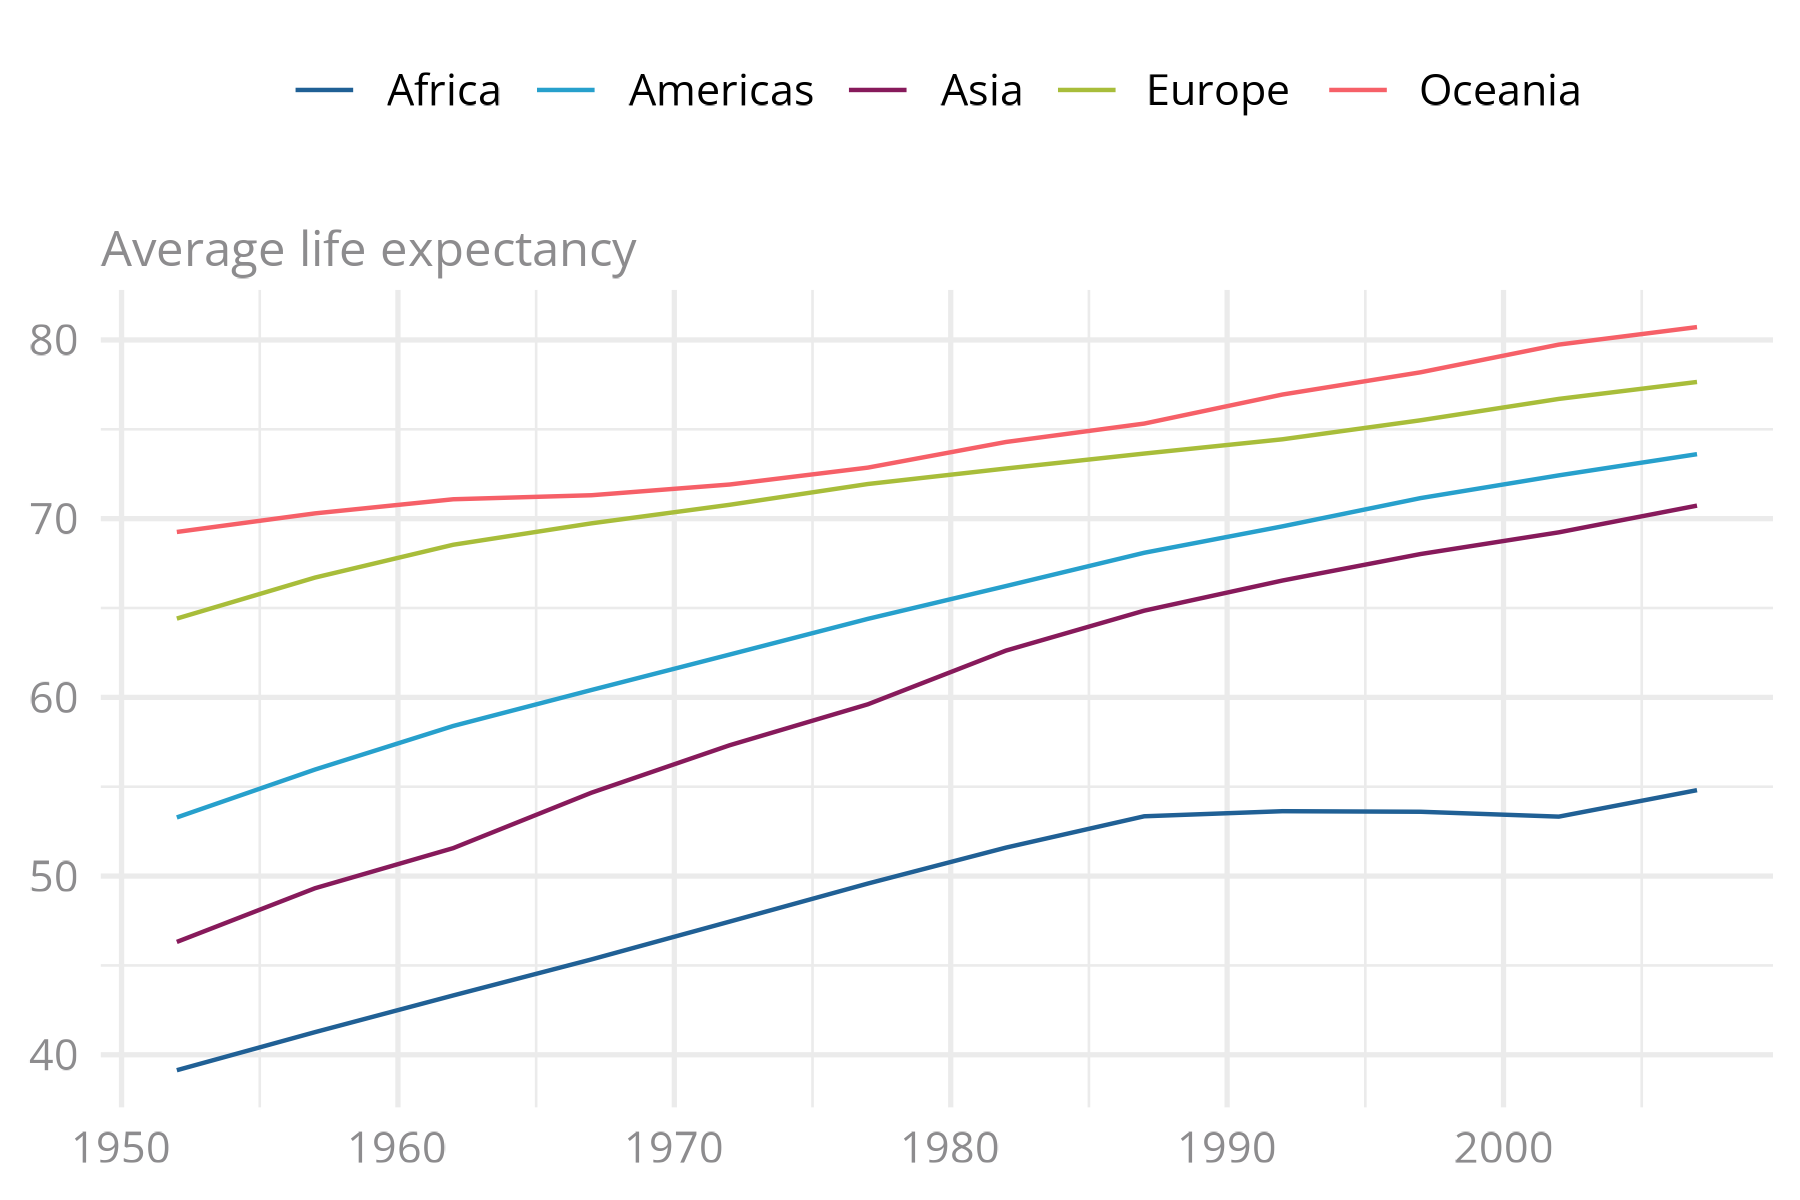
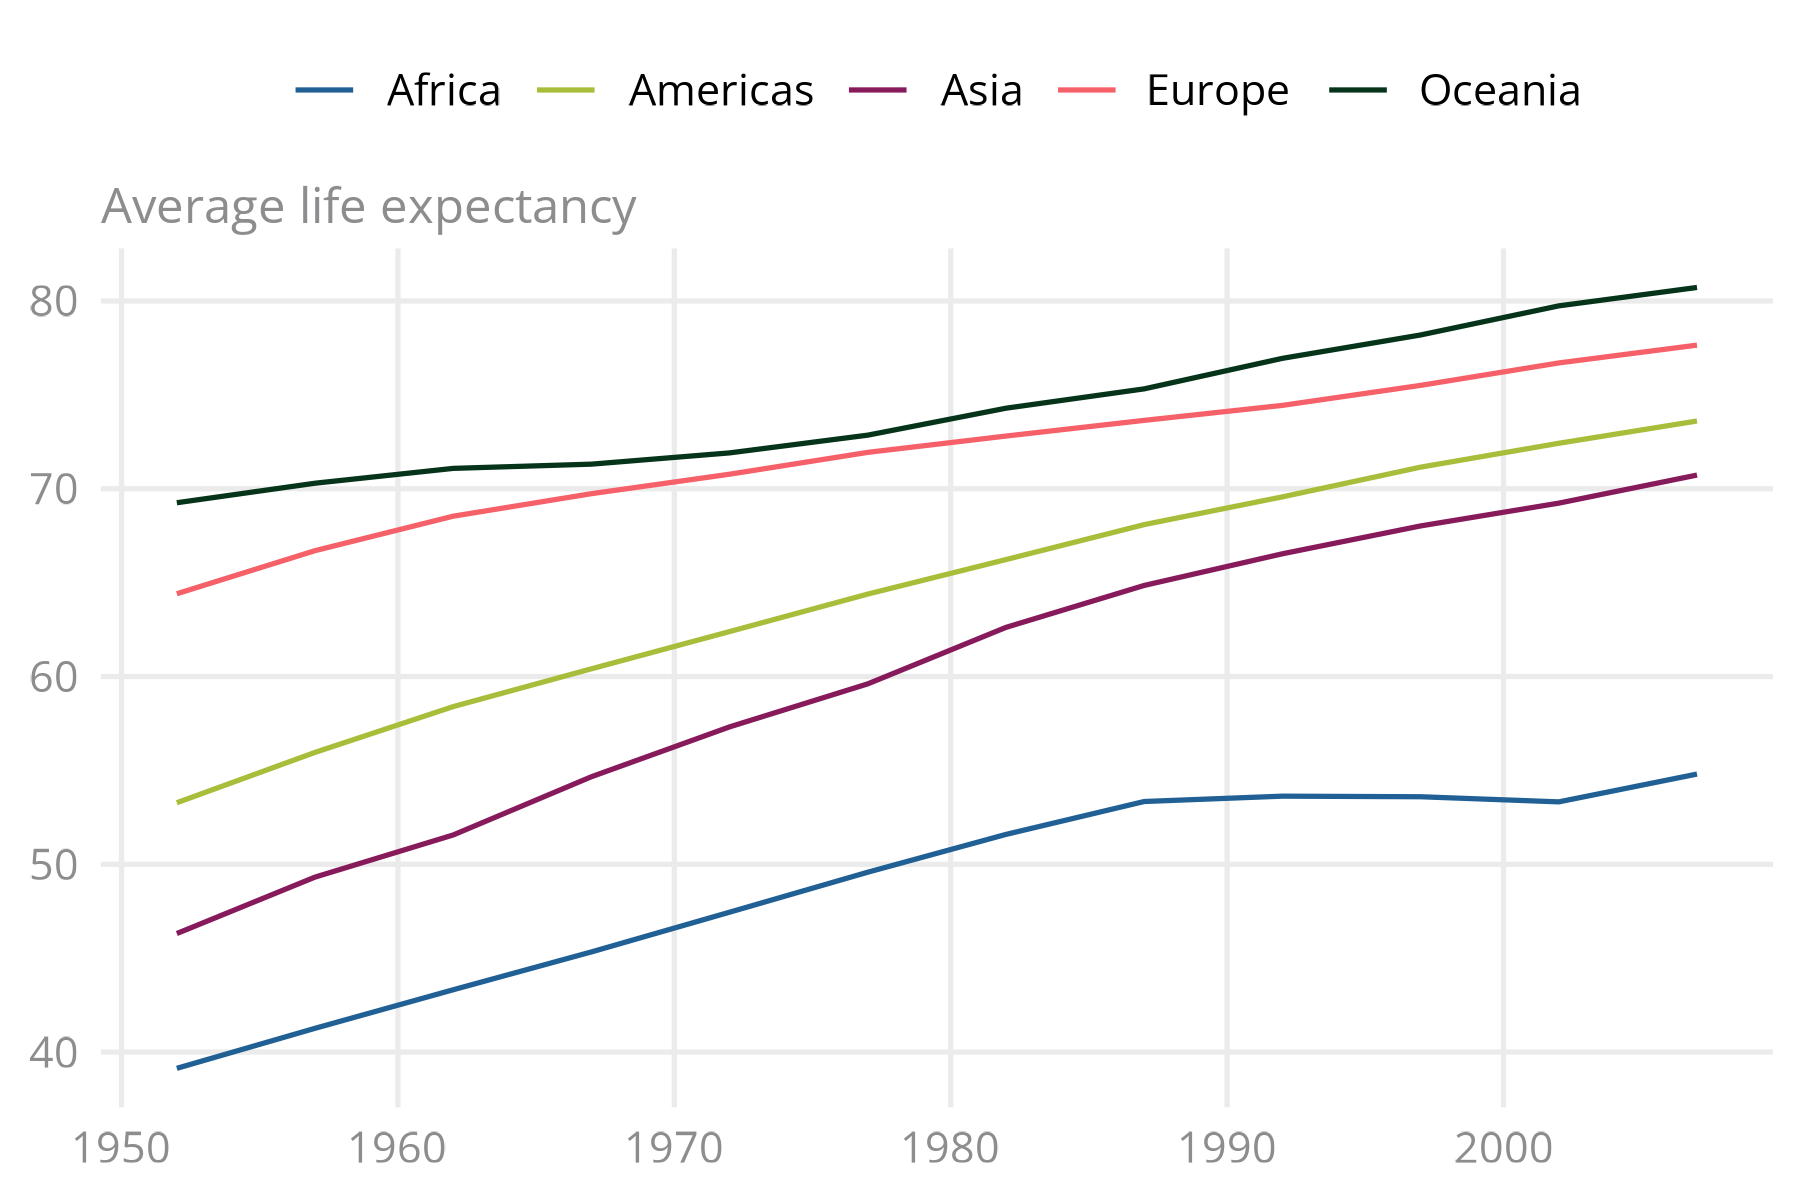
update to colours and theme

diff --git a/README.md b/README.md
@@ -47,7 +47,7 @@ gapminder |>
   ) +
   geom_line() +
   # Use colour scale with categorical palette
-  scale_colour_ONS_d(palette_name = "categorical") +
+  scale_colour_ONS_d() +
   # Use tag instead of `y` for horizontal orientation
   labs(x = NULL, tag = "Average life expectancy") +
   theme_ONS() 
